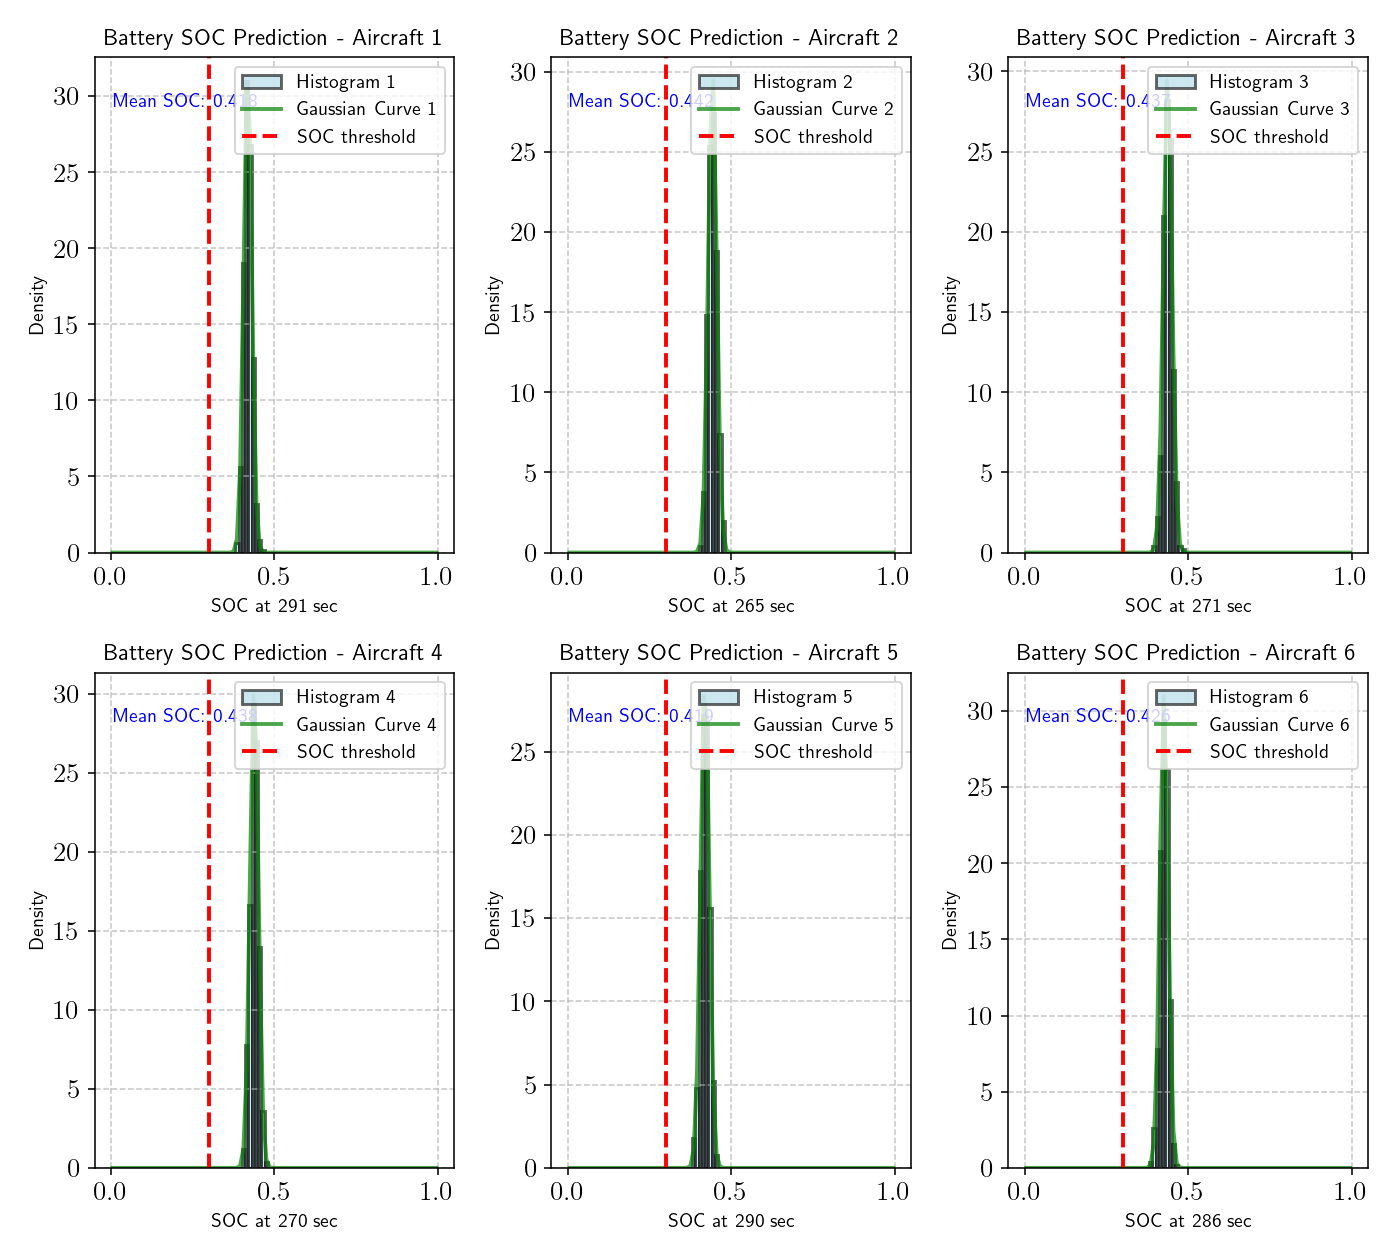
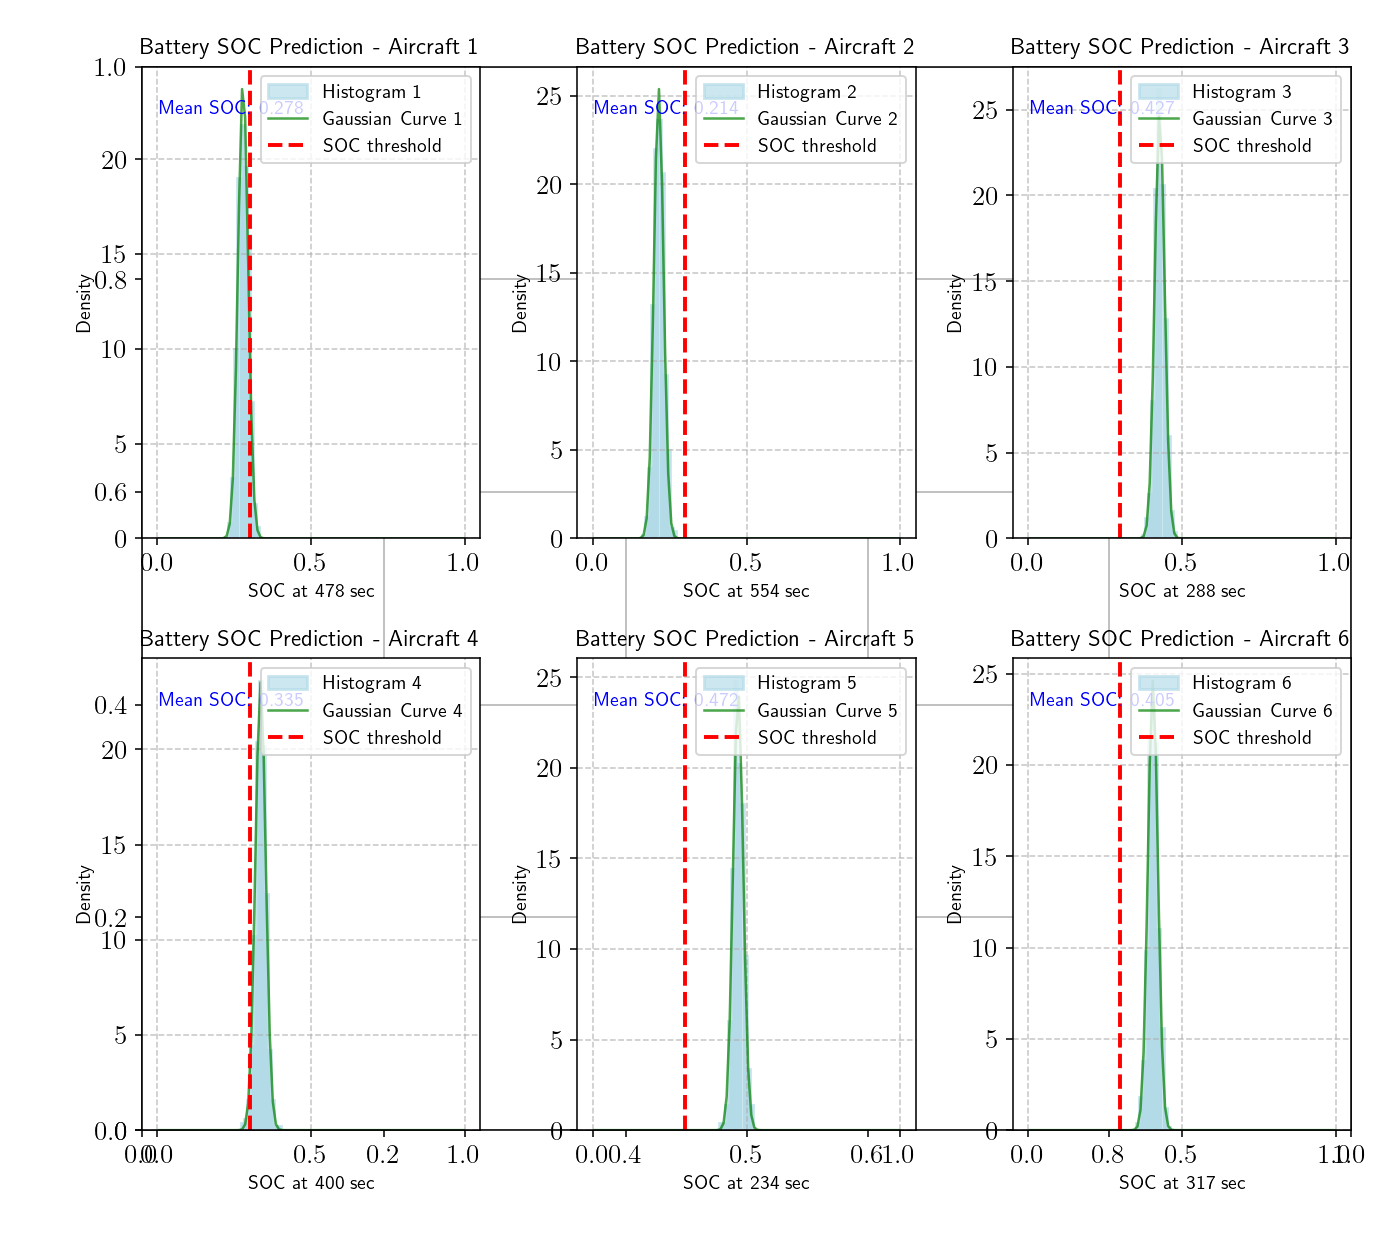
committing docs

diff --git a/BatteryPrognostics/plots_for_paper.py b/BatteryPrognostics/plots_for_paper.py
@@ -110,14 +110,15 @@ class PlotsPaper:
                 sigma = np.std(SOC)
 
                 # Generate the bins for the histogram
-                (values, bins, _) = ax.hist(SOC, bins=100, density=True, label=f"Histogram {i+1}", alpha=0.6, color='lightblue', edgecolor='black', linewidth=1.5, range=(0, 1))
+                # (values, bins, _) = ax.hist(SOC, bins=100, density=True, label=f"Histogram {i+1}", alpha=0.6, color='lightblue', edgecolor='black', linewidth=1.5, range=(0, 1))
+                (values, bins, _) = ax.hist(SOC, bins=100, density=True, label=f"Histogram {i+1}", alpha=0.6, color='lightblue', edgecolor='lightblue', linewidth=1.5, range=(0, 1))
 
                 # Generate the PDF
                 bin_centers = 0.5 * (bins[1:] + bins[:-1])
                 pdf = stats.norm.pdf(x=bin_centers, loc=mu, scale=sigma)
 
                 # Plot the PDF within the current subplot
-                ax.plot(bin_centers, pdf, label=f"Gaussian Curve {i+1}", color='green', linestyle='-', linewidth=2, alpha=0.7)
+                ax.plot(bin_centers, pdf, label=f"Gaussian Curve {i+1}", color='green', linestyle='-', linewidth=1.3, alpha=0.7)
 
                 # Append the mean SOC for this profile to the list
                 mean_SOC.append(mu)
@@ -212,6 +213,6 @@ if __name__ == "__main__":
         # results_directory = os.path.join(current_directory, "..", "EnergyRequirementResults/fullMissionBatteryParams.mat".format(experiment))
     pickle_path = os.path.join(current_directory, "..", "BatteryPrognosticsResults/Pickles/")
     plotter = PlotsPaper(pickle_path)
-    plotter.plot_soc_predictions_save_independetly()
+    plotter.plot_soc_predictions()
     # plotter.plot_voltage()
     # plotter.get_prog_times()
